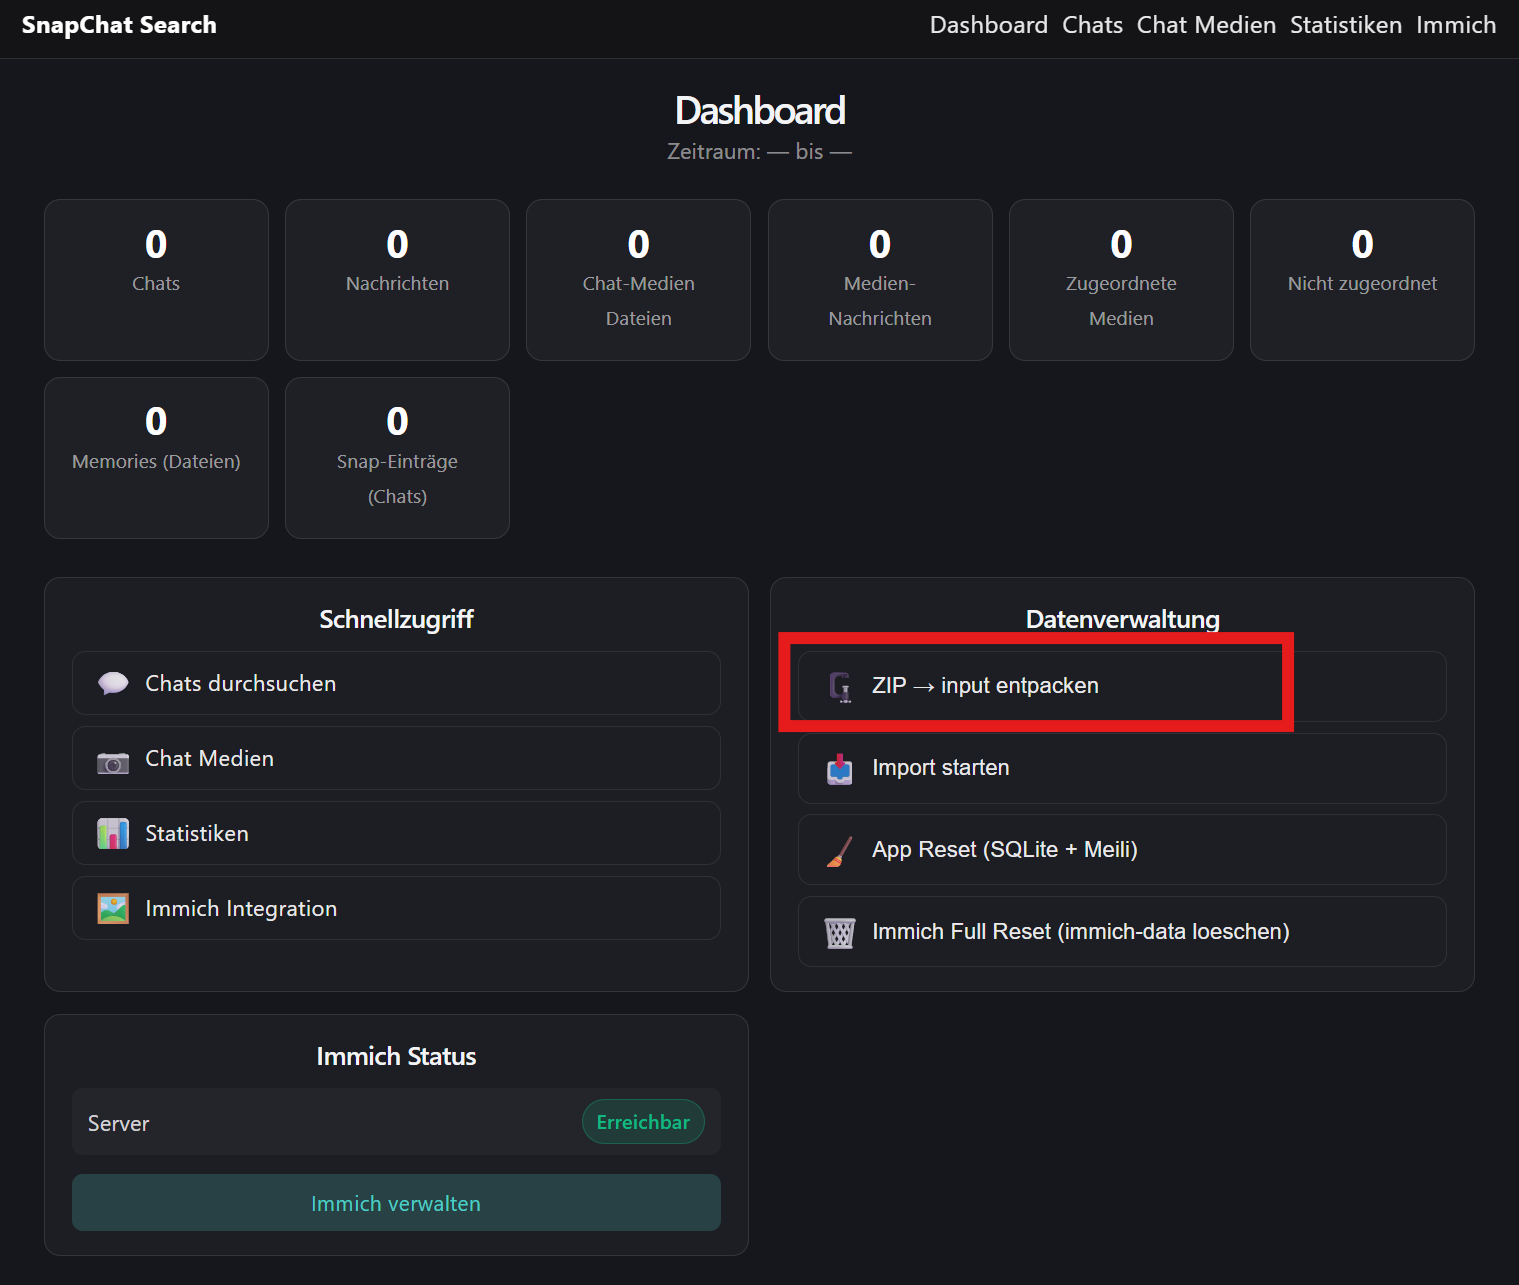
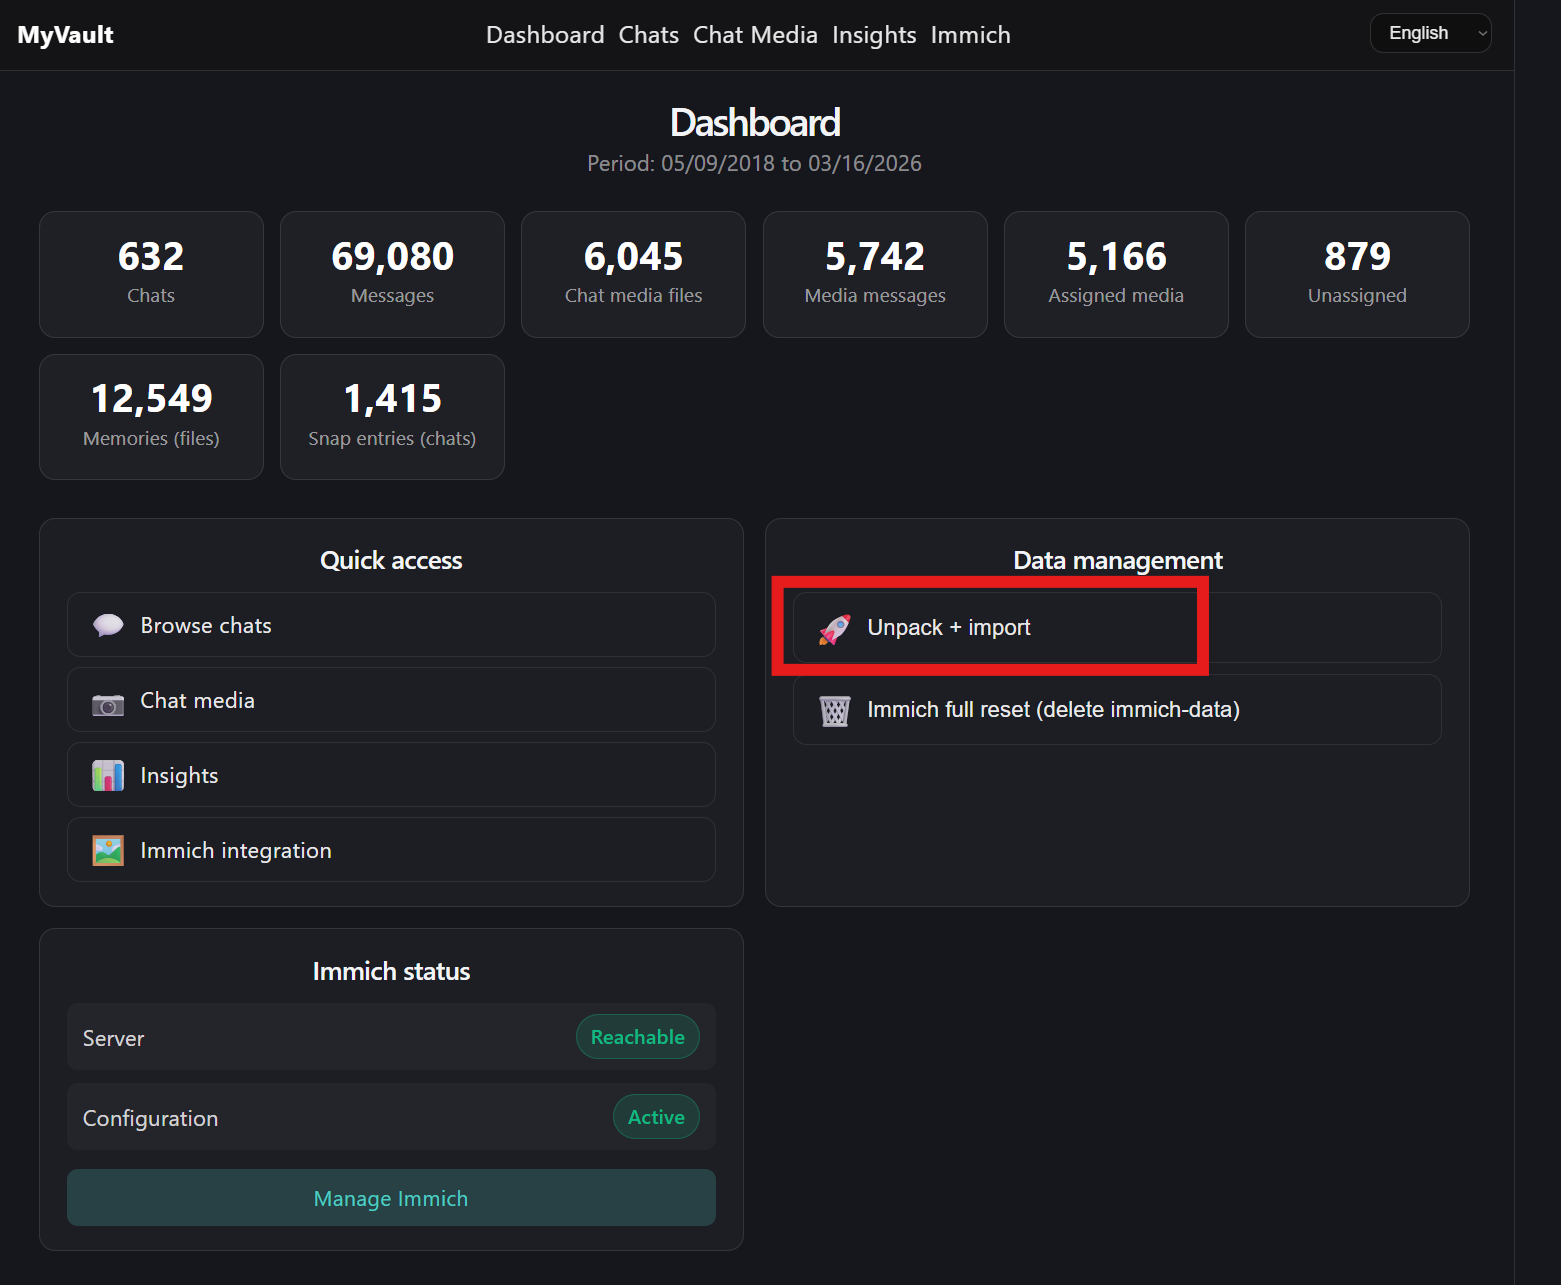
README: Quickstart mit Clone-Link, Export-Anleitung mit Bildern; .env ins Repo, .env.example entfernt; Stats-Seite & UI-Anpassungen
Made-with: Cursor

diff --git a/frontend/src/pages/StatsPage.tsx b/frontend/src/pages/StatsPage.tsx
@@ -387,19 +387,6 @@ export default function StatsPage() {
             </div>
           </div>
 
-          <div className="panel chartPanel" style={{ maxWidth: 500 }}>
-            <h3>{t('stats.charts.topSenders')}</h3>
-            <ul className="senderList">
-              {stats.by_sender.map((s, i) => (
-                <li key={s.sender}>
-                  <span className="senderRank">{i + 1}.</span>
-                  <span className="senderName">{s.sender}</span>
-                  <span className="senderCount">{formatNumber(i18n.language, s.count)}</span>
-                </li>
-              ))}
-            </ul>
-          </div>
-
           <div className="panel chartPanel">
             <div className="insightsSectionHeader">
               <h2>{t('stats.snapExportInsights.title')}</h2>
@@ -483,47 +470,13 @@ export default function StatsPage() {
                     )}
                   </div>
 
-                  <div className="panel insightsCard">
-                    <div className="insightsCardHeader">
-                      <h3>{t('stats.snapExportInsights.categories')}</h3>
-                      <span className="muted">{t('stats.snapExportInsights.interestsAndContent')}</span>
-                    </div>
-                    {insights.interests?.length ? (
-                      <div className="insightsTwoCol">
-                        <div>
-                          <div className="pillHeader">Interest ({insights.interests.filter((i) => i.kind === 'interest').length})</div>
-                          <ul className="tagList">
-                            {insights.interests
-                              .filter((i) => i.kind === 'interest')
-                              .slice(0, 60)
-                              .map((i) => (
-                                <li className="tag" key={`interest:${i.category}`}>{i.category}</li>
-                              ))}
-                          </ul>
-                        </div>
-                        <div>
-                          <div className="pillHeader">Content ({insights.interests.filter((i) => i.kind === 'content').length})</div>
-                          <ul className="tagList">
-                            {insights.interests
-                              .filter((i) => i.kind === 'content')
-                              .slice(0, 60)
-                              .map((i) => (
-                                <li className="tag" key={`content:${i.category}`}>{i.category}</li>
-                              ))}
-                          </ul>
-                        </div>
-                      </div>
-                    ) : (
-                      <p className="muted">{t('stats.snapExportInsights.noCategories')}</p>
-                    )}
-                  </div>
                 </div>
 
                 <div className="insightsDisclosures">
                   <details className="panel insightsDisclosure">
                     <summary>
                       <span>{t('stats.snapExportInsights.webInteractions')}</span>
-                      <span className="muted">{t('stats.snapExportInsights.sensitive')} · {formatNumber(i18n.language, insights.web_interactions?.length ?? 0)}</span>
+                      <span className="muted">{formatNumber(i18n.language, insights.web_interactions?.length ?? 0)}</span>
                     </summary>
                     <p className="muted">
                       {t('stats.snapExportInsights.webInteractionsHint')}
@@ -542,7 +495,6 @@ export default function StatsPage() {
                   <details className="panel insightsDisclosure">
                     <summary>
                       <span>{t('stats.snapExportInsights.accountDeviceLogin')}</span>
-                      <span className="muted">{t('stats.snapExportInsights.verySensitive')}</span>
                     </summary>
                     <p className="muted">
                       {t('stats.snapExportInsights.accountDeviceLoginHint')}
@@ -603,6 +555,59 @@ export default function StatsPage() {
                   </details>
                 </div>
               </>
+            )}
+          </div>
+
+          <div className="statsLongLists">
+            <div className="panel chartPanel statsLongListCard">
+              <h3>{t('stats.charts.topSenders')}</h3>
+              <div className="scrollBox">
+                <ul className="senderList">
+                  {stats.by_sender.map((s, i) => (
+                    <li key={s.sender}>
+                      <span className="senderRank">{i + 1}.</span>
+                      <span className="senderName">{s.sender}</span>
+                      <span className="senderCount">{formatNumber(i18n.language, s.count)}</span>
+                    </li>
+                  ))}
+                </ul>
+              </div>
+            </div>
+            {insights && (
+              <div className="panel chartPanel statsLongListCard">
+                <h3>{t('stats.snapExportInsights.categories')}</h3>
+                <span className="muted" style={{ display: 'block', marginBottom: 8 }}>{t('stats.snapExportInsights.interestsAndContent')}</span>
+                {insights.interests?.length ? (
+                  <div className="scrollBox">
+                    <div className="insightsTwoCol">
+                      <div>
+                        <div className="pillHeader">Interest ({insights.interests.filter((i) => i.kind === 'interest').length})</div>
+                        <ul className="tagList">
+                          {insights.interests
+                            .filter((i) => i.kind === 'interest')
+                            .slice(0, 60)
+                            .map((i) => (
+                              <li className="tag" key={`interest:${i.category}`}>{i.category}</li>
+                            ))}
+                        </ul>
+                      </div>
+                      <div>
+                        <div className="pillHeader">Content ({insights.interests.filter((i) => i.kind === 'content').length})</div>
+                        <ul className="tagList">
+                          {insights.interests
+                            .filter((i) => i.kind === 'content')
+                            .slice(0, 60)
+                            .map((i) => (
+                              <li className="tag" key={`content:${i.category}`}>{i.category}</li>
+                            ))}
+                        </ul>
+                      </div>
+                    </div>
+                  </div>
+                ) : (
+                  <p className="muted">{t('stats.snapExportInsights.noCategories')}</p>
+                )}
+              </div>
             )}
           </div>
         </>

diff --git a/frontend/src/pages/DashboardPage.tsx b/frontend/src/pages/DashboardPage.tsx
@@ -150,6 +150,18 @@ export default function DashboardPage() {
     if (!ok) return
 
     try {
+      setBusy('/api/admin/reset-app')
+      const resetR = await fetch('/api/admin/reset-app', {
+        method: 'POST',
+        headers: { 'Content-Type': 'application/json' },
+      })
+      const resetData = (await resetR.json().catch(() => null)) as AdminResp | null
+      if (!resetR.ok) {
+        setAdminMsg(`${t('dashboard.admin.errorPrefix')}${resetData?.message || (resetData as any)?.detail || `HTTP ${resetR.status}`}`)
+        setBusy(null)
+        return
+      }
+
       setBusy('/api/admin/unpack-import')
       const r = await fetch('/api/admin/unpack-import', {
         method: 'POST',
@@ -165,8 +177,7 @@ export default function DashboardPage() {
       startPolling()
     } catch (e: any) {
       setAdminMsg(`${t('dashboard.admin.errorPrefix')}${e?.message || String(e)}`)
-    } finally {
-      // busy wird durch Polling/Done/Error zurückgesetzt
+      setBusy(null)
     }
   }
 
@@ -274,19 +285,6 @@ export default function DashboardPage() {
             >
               <span className="dashQuickIcon">🚀</span>
               <span>{t('dashboard.actions.unpackAndImportRecommended')}</span>
-            </button>
-
-            <button
-              className="dashQuickLink"
-              disabled={dataManagementBusy}
-              onClick={() => runAdmin(
-                '/api/admin/reset-app',
-                undefined,
-                t('dashboard.confirm.appReset')
-              )}
-            >
-              <span className="dashQuickIcon">🧹</span>
-              <span>{t('dashboard.actions.appReset')}</span>
             </button>
 
             <button

diff --git a/frontend/src/App.css b/frontend/src/App.css
@@ -843,6 +843,23 @@
   padding-right: 4px;
 }
 
+.statsLongLists {
+  display: grid;
+  grid-template-columns: 1fr 1fr;
+  gap: 16px;
+  margin-top: 16px;
+}
+
+.statsLongListCard .scrollBox {
+  max-height: 360px;
+}
+
+@media (max-width: 900px) {
+  .statsLongLists {
+    grid-template-columns: 1fr;
+  }
+}
+
 .insightsSubGrid {
   display: grid;
   grid-template-columns: 1fr 1fr;

diff --git a/README.md b/README.md
@@ -1,11 +1,10 @@
 # MyVault – Chat & Memories Vault for Snapchat Export (Docker)
 
-MyVault makes your **Snapchat “My Data” export** searchable locally (typo-tolerant / similarity search via Meilisearch) and provides a web UI for chats, media, statistics/insights, and optional Immich sync.
-
-Repo name: `chats-and-memories-vault-for-snapchat-export`
+MyVault makes your **Snapchat “My Data” export** searchable locally and provides a web UI for chats, media/snaps, statistics/insights.
 
 > Disclaimer: This project is **not affiliated with, endorsed by, or connected to** Snapchat or Snap Inc.  
-> “Snapchat” is a trademark of Snap Inc. and is used here **only to describe compatibility** with exported data.
+> "Snapchat" is a trademark of Snap Inc. and is used here **only to describe compatibility** with exported data.
+> "Immich" is used in this programm. The immich repo can be viewed here: `https://github.com/immich-app/immich`
 
 ## The problem
 
@@ -14,6 +13,7 @@ Snapchat offers very limited ways to meaningfully use your own data:
 - **No search** – You can’t search chats or snap history by text/people; you have to scroll manually.
 - **Memories are hard to browse** – Memories are a big list without grouping by person/context; finding specific photos/videos is tedious.
 - **Chat media is poorly organized** – Images/videos from chats are not easily sortable by chat/date/person.
+- **Storage** – Snapchat recently announced a storage limit for non premium users
 
 The official “My Data” export gives you raw files, but no good interface to explore them.
 
@@ -25,18 +25,23 @@ MyVault turns your Snapchat export into a **searchable local vault** and provide
 - **Chats** – Chat list with message counts; open a chat view with **in-chat search** (highlight + jump). Also includes **global search** across all chats.
 - **Chat media** – Gallery of all chat images/videos with filters (date, type, chat, assigned/unassigned).
 - **Insights** – Charts/statistics for chats & snaps plus additional analyses from the export (e.g. engagement, time spent, categories, ranking, account/device/login; stored locally).
-- **Immich (optional)** – Sync Memories + chat media into Immich, organized into albums (see below).
+- **Immich** – Sync Memories + chat media into Immich, organized into albums (see below).
 
 ## Requirements
 
-- **Docker Desktop**
-- Optional for Immich GPU: NVIDIA driver + Container Toolkit
+- **Docker**
+- Optional for Immich GPU (CPU works fine as well, only ML from Immich is slower): NVIDIA driver + Container Toolkit
 
 ## Quickstart (Windows)
 
-### 1) Clone repo and create `.env`
+### 1) Clone repo
 
-Copy `.env.example` to `.env` and adjust values if needed.
+```bash
+git clone https://github.com/leofleischmann/chats-and-memories-vault-for-snapchat-export.git
+cd chats-and-memories-vault-for-snapchat-export
+```
+
+Die `.env` liegt im Repo; Werte bei Bedarf anpassen.
 
 ### 2) Start the app
 
@@ -48,59 +53,50 @@ Copy `.env.example` to `.env` and adjust values if needed.
 ### 3) Open in your browser
 
 - App: `http://localhost:5173`
-- Backend API (Swagger): `http://localhost:8000/docs`
 - Immich (if started): `http://localhost:2283`
 
 ## Import data (via Dashboard)
 
 1. **Get your Snapchat export**  
-   In the Snapchat app, request/download your “My Data” export. You’ll receive one or multiple ZIP files.
+   In the Snapchat app, request your “My Data” export, or use the web link: [Download My Data (Snapchat)](https://accounts.snapchat.com/v2/download-my-data). You’ll receive one or multiple ZIP files.
+
+   ![Snapchat – Export anfordern](images/export-all.png)
 
 2. **Put ZIPs into the folder**  
-   Copy all downloaded ZIP files into **`input zip/`** in this project. The folder exists in the repo (empty); the ZIP contents are ignored by Git.
+   Copy all downloaded ZIP files into **`input zip/`** in this project.
+
+   ![ZIP-Dateien in input zip/ ablegen](images/export-in-folder.png)
 
 3. **Run import**  
    Open `http://localhost:5173` → **Dashboard** → **Data management**, then:
 
-   - **Unpack ZIP → input** – unpacks ZIPs into `input/` (chat_media, memories, JSON, etc.). Continue only once all files are present in `input/`.
+   - **Unpack ZIP → input + import ** – unpacks ZIPs into `input/` (chat_media, memories, JSON, etc.) and starts the import process.
 
      ![Dashboard – Data management](<images/dashboard import 1.png>)
 
-   - **Start import** – processes the data and makes it searchable.
-
-     ![Dashboard – Import](<images/dashboard import 2.png>)
-
    - **Immich (optional)** – if Immich is running: go to **Immich** → click **Start sync**.
 
-     ![Dashboard – Immich sync](<images/dashboard import 3.png>)  
-     ![Immich integration](<images/dashboard import 4.png>)
+     ![Dashboard – Immich sync](<images/dashboard import 2.png>)  
+     ![Immich integration](<images/dashboard import 3.png>)
 
-## Importing newer exports later (incremental workflow)
+
+
+## Importing newer exports later
 
 When you request a new “My Data” export, Snapchat **typically** includes your previous data plus new data. (This is common behavior, but not a strict guarantee.)
 
 Recommended workflow months later:
 
-1. Put the new ZIP(s) into `input zip/` (you can replace/overwrite older ZIPs).
-2. Dashboard → **Unpack ZIP → input**
-3. Dashboard → **Start import**
-   - Resetting the app database is usually fine (import is fast).
-4. Immich → **Start sync**
+1. Put the new ZIP(s) into `input zip/` (you can delete older ZIPs).
+2. Dashboard → **Unpack + import**
+3. Immich → **Start sync**
    - Immich detects duplicates and won’t upload assets twice.
    - This helps preserve Immich data like face/person assignments as long as you **do not reset Immich**.
    - If a medium is assigned to a chat in a newer export, the next sync can additionally place it into the matching chat album.
 
 ## Immich organization (if you use sync)
 
-- Album **“Snapchat Memories”** – all Memories main files (overlays are skipped). When uploading, MyVault sets **timestamp + GPS coordinates** (if available) from `json/memories_history.json` as metadata in Immich.
+- Album **“Snapchat Memories”** – all Memories main files (overlays are skipped when not checked in first sync process). When uploading, MyVault sets **timestamp + GPS coordinates** (if available) from `json/memories_history.json` as metadata in Immich.
 - Album **“Snapchat Shared Story”** – content from `shared_story/` (including date/type from `json/shared_story.json`).
 - Album **“Chat: <Chat title>”** – media for that chat.
 - Album **“Chat media (unassigned)”** – media without a linked message.
-
-## What should NOT be committed
-
-- `.env` (secrets/keys) → use `.env.example`
-- `data/`, `input/`, the **contents** of `input zip/` (ZIP files), `immich-data/` (large/private data)
-- `frontend/node_modules/`, `frontend/dist/`
-
-The folder **`input zip/`** is tracked only as an empty folder placeholder (`.gitkeep`). ZIP files placed inside are ignored by Git; the remaining paths are listed in `.gitignore`.
